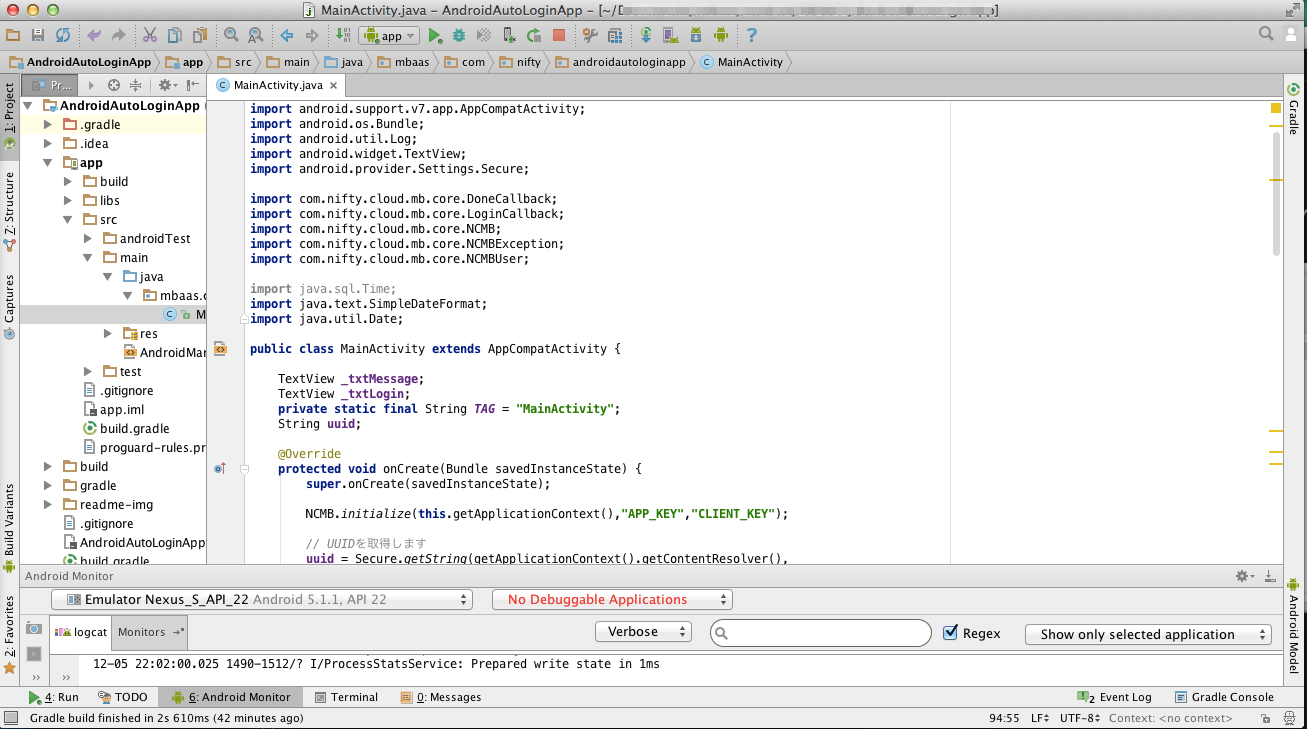
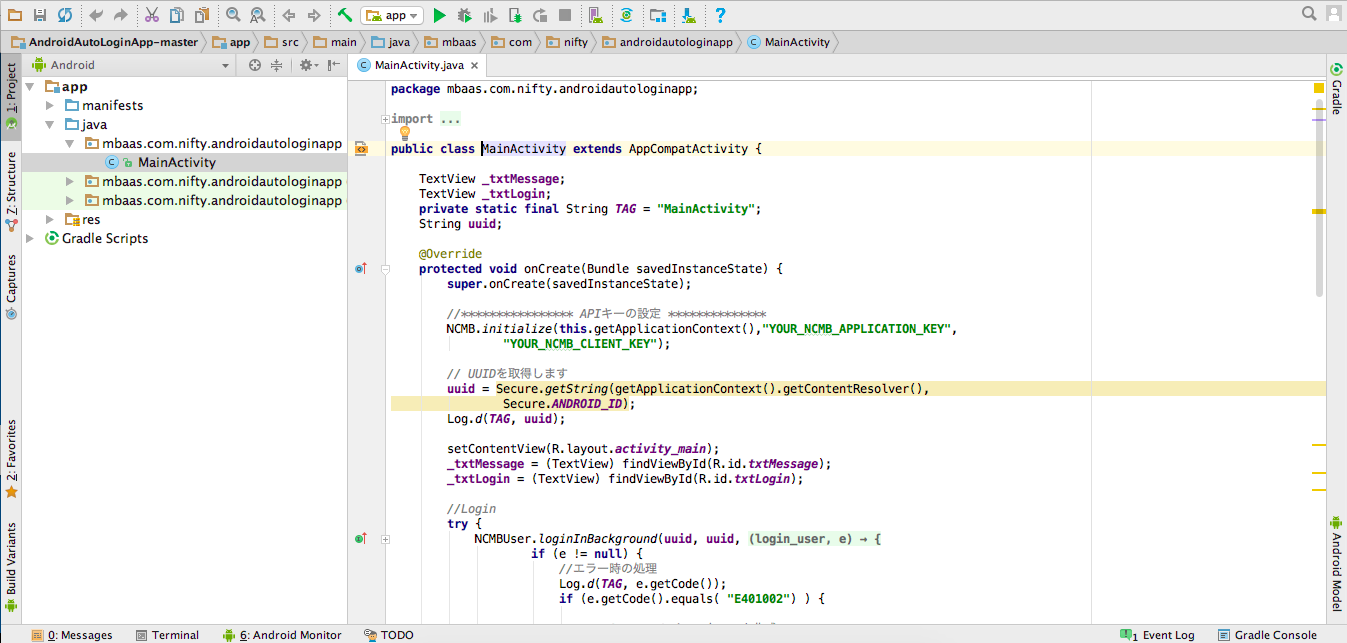
update README & image
READMEの修正と、それに伴い、画像を１点修正しました。

Changed region(s): [[0.0, 0.0, 1.0, 1.0], [0.153, 0.6221, 0.1836, 0.6532]]

diff --git a/README.md b/README.md
@@ -35,13 +35,13 @@
 * 下記リンクをクリックしてプロジェクトをダウンロードします
  * __[AndroidAutoLoginApp](https://github.com/NIFTYCloud-mbaas/AndroidAutoLoginApp/archive/master.zip)__
 
- ### 3. Android Studioでアプリを起動
+### 3. Android Studioでアプリを起動
 
- AndroidStudioを開きます、「既存プロジェクトを開く」と選択します。ダウンロードして解凍したプロジェクトを選択します。
+* AndroidStudioを開いて、「Open an existing Android Studio project」から、ダウンロードして解凍したプロジェクトを選択します
 
  ![画像8-1](readme-img/android_project_open.png)
 
- 選択したプロジェクトを開きます。
+* 選択したプロジェクトが開かれます
 
  ![画像6](readme-img/006.png)
 
@@ -53,11 +53,13 @@
 
 * それぞれ`YOUR_NCMB_APPLICATION_KEY`と`YOUR_NCMB_CLIENT_KEY`の部分を書き換えます
  * このとき、ダブルクォーテーション（`"`）を消さないように注意してください！
- * 書き換え終わったら`command + s`キーで保存をします
+* 書き換え終わったら保存してください
+ * Windowsの場合、Ctrl + Sで保存できます。
+ * Macの場合、command + Sで保存できます。
 
-### 6. 動作確認と解説
+### 5. 動作確認と解説
 
-* AndroidStudioでビルドを行います
+* 上の実行ボタン（さんかくの再生マーク）をクリックして、Emulatorでビルドを行います
 * アプリが起動します
 
 #### 初回起動時
@@ -81,7 +83,7 @@
 #### ２回目以降起動時
 初回起動時に端末IDで会員情報が登録されているため、２回目以降起動時はログインが行われます
 
-* 左上の「■」ボタンをクリックしてプログラムを停止します
+* 上の「■」ボタンをクリックしてプログラムを停止します
 * 再度、実行ボタン（さんかくの再生マーク）をクリックします
 
 ##### アプリ側
